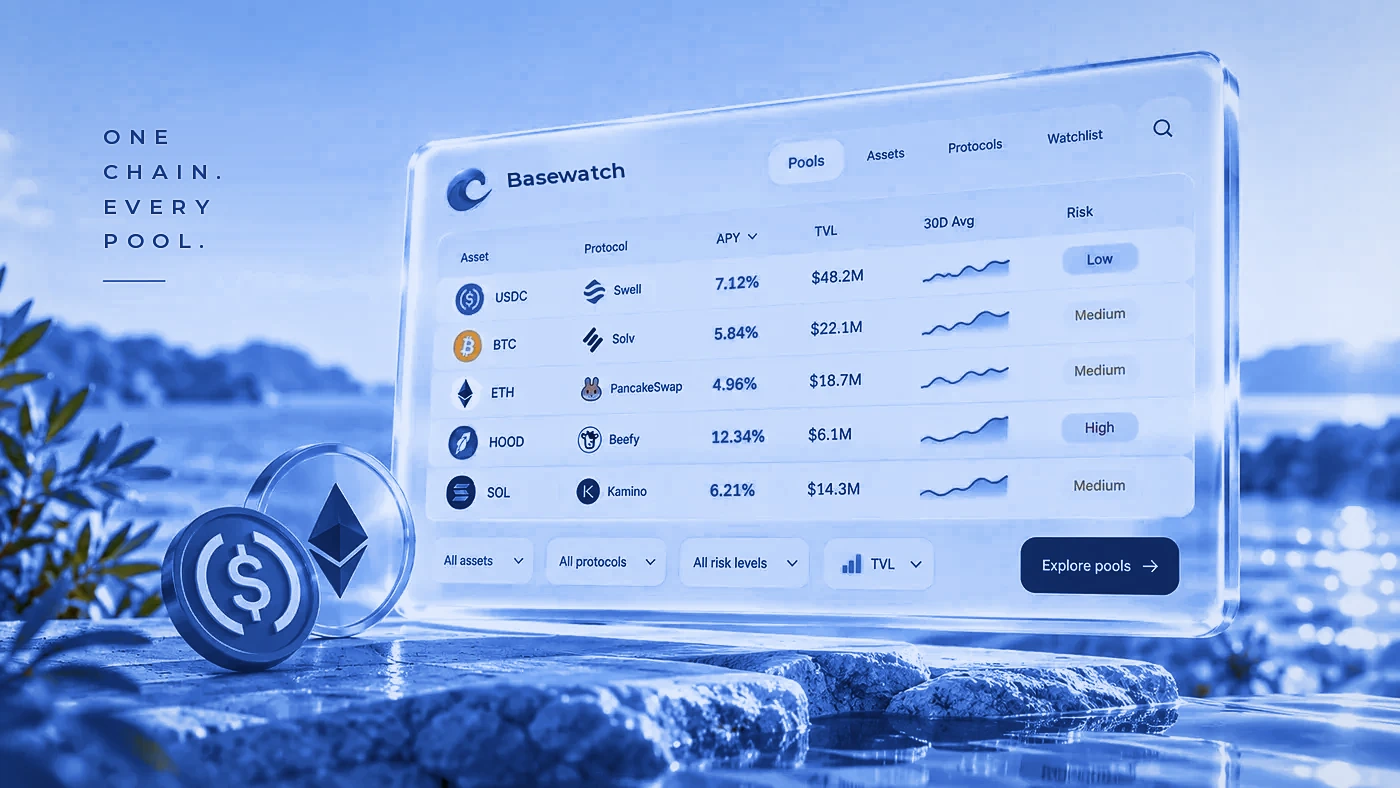
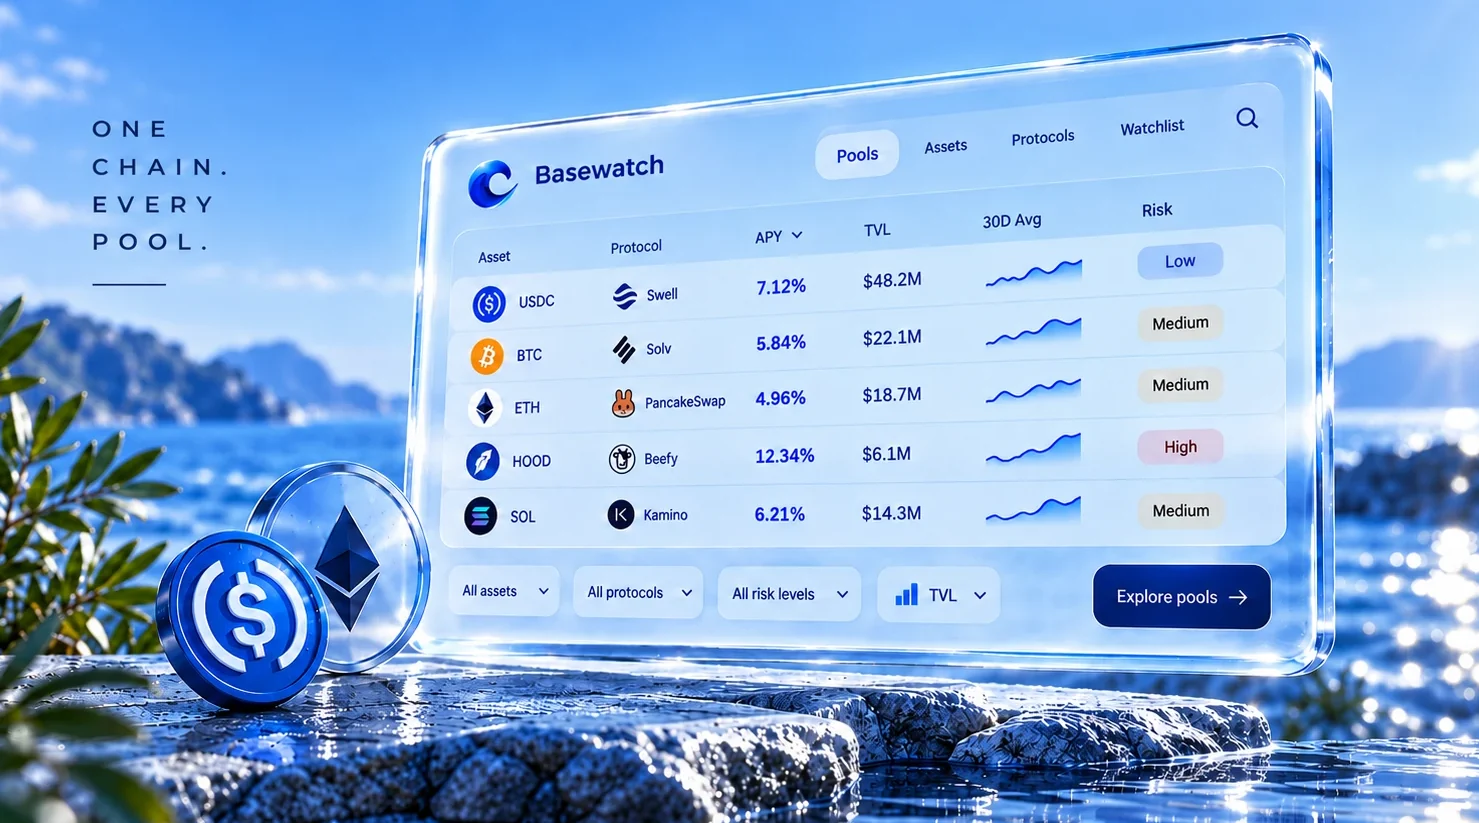
Basewatch: new pool-table illustration on /yields
New high-resolution pools-table.webp from the owner (cropped from a page
screenshot to the card, 1479x823, WebP q86). The img dimensions on
/yields match.

The name Basewatch is part of the new artwork, so brandimages.py no
longer writes it into the pools table (it would draw over the picture
on a future rename); pools-base.webp, which only fed that step, is
removed and rebrand.py's message says the table needs a new picture
after a rename.

Claude-Session: https://claude.ai/code/session_01Vu1jRvG7tPsAiqBTm8VSs1

diff --git a/yields.html b/yields.html
@@ -55,7 +55,7 @@
       <h1>Where your capital earns the most</h1>
       <p class="lede">Every pool on Base above $25k TVL. Click a column to sort. APY is the total annual return, split into base (interest and fees) and rewards (tokens that can lose value). Tap 🔔 for a Telegram alert.</p>
     </div>
-    <figure class="headpic"><img src="/assets/brand/pools-table.webp" alt="A glass Basewatch table of pools with APY, TVL and risk, standing on a rock by the sea" width="1400" height="788" fetchpriority="high"><figcaption>Illustration</figcaption></figure>
+    <figure class="headpic"><img src="/assets/brand/pools-table.webp" alt="A glass Basewatch table of pools with APY, TVL and risk, standing on a rock by the sea" width="1479" height="823" fetchpriority="high"><figcaption>Illustration</figcaption></figure>
   </header>
 
   <section class="gauge glass" aria-label="Key figures">

diff --git a/brandimages.py b/brandimages.py
@@ -1,6 +1,8 @@
-"""Writes the site's name into the two pictures that show it: the emblem on the home page and the pools table on /yields.
+"""Writes the site's name into the emblem picture (hero-logo.webp).
 
-rebrand.py runs this. The *-base.webp files are the same pictures with the name taken out.
+rebrand.py runs this. hero-base.webp is the same picture with the name taken out.
+The pools table on /yields (pools-table.webp) is finished artwork with the name already in it,
+so after a rename it needs a new picture rather than this script.
 """
 import os, sys
 from PIL import Image, ImageDraw, ImageFont, ImageFilter
@@ -45,20 +47,9 @@ def hero(name):
     Image.alpha_composite(im, ref).convert("RGB").save(os.path.join(B, "hero-logo.webp"), quality=90)
 
 
-def pools(name):
-    # the name in the header of the glass pools table, tilted like the table
-    im = Image.open(os.path.join(B, "pools-base.webp")).convert("RGBA")
-    f, track, w = fit(name, 18, 124, 0)
-    pad = 20; box = Image.new("RGBA", (int(w) + 2 * pad, 60), (0, 0, 0, 0))
-    ImageDraw.Draw(box).text((pad, 30 - f.getbbox("H")[3]), name, font=f, fill=(8, 45, 85, 240))
-    box = box.rotate(5, resample=Image.BICUBIC, expand=True, center=(pad, 30)).filter(ImageFilter.GaussianBlur(.3))
-    # left end of the baseline sits where the old name's did (x 504, y 191)
-    im.alpha_composite(box, (504 - pad, 191 - 30 - (box.height - 60) // 2 - 4))
-    im.convert("RGB").save(os.path.join(B, "pools-table.webp"), quality=90)
-
 
 def run(name):
-    hero(name); pools(name)
+    hero(name)
 
 
 if __name__ == "__main__":

diff --git a/rebrand.py b/rebrand.py
@@ -48,7 +48,7 @@ for d, dirs, files in os.walk(ROOT):
 if c["name"] != n["name"]:
     try:
         import brandimages
-        brandimages.run(n["name"]); print("wrote the name into assets/brand/hero-logo.webp and pools-table.webp")
+        brandimages.run(n["name"]); print("wrote the name into assets/brand/hero-logo.webp (pools-table.webp has the name drawn in: replace it by hand)")
     except ImportError:
         print("Pillow is missing (pip install pillow): the two pictures still show the old name")
 json.dump({k: n[k] for k in FIELDS}, open(CUR_F, "w", encoding="utf-8"), indent=2, ensure_ascii=False)
